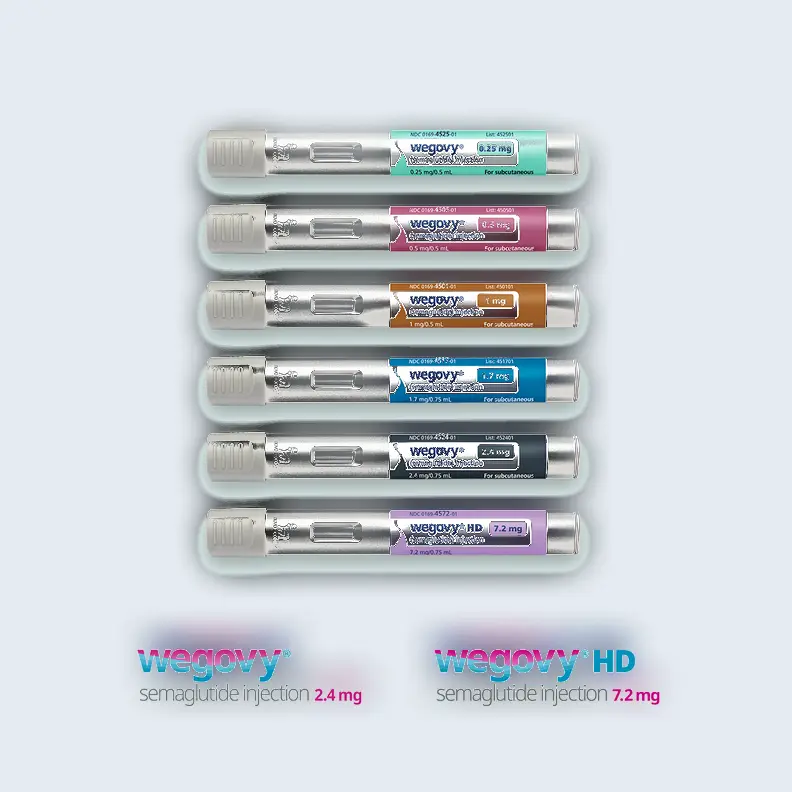
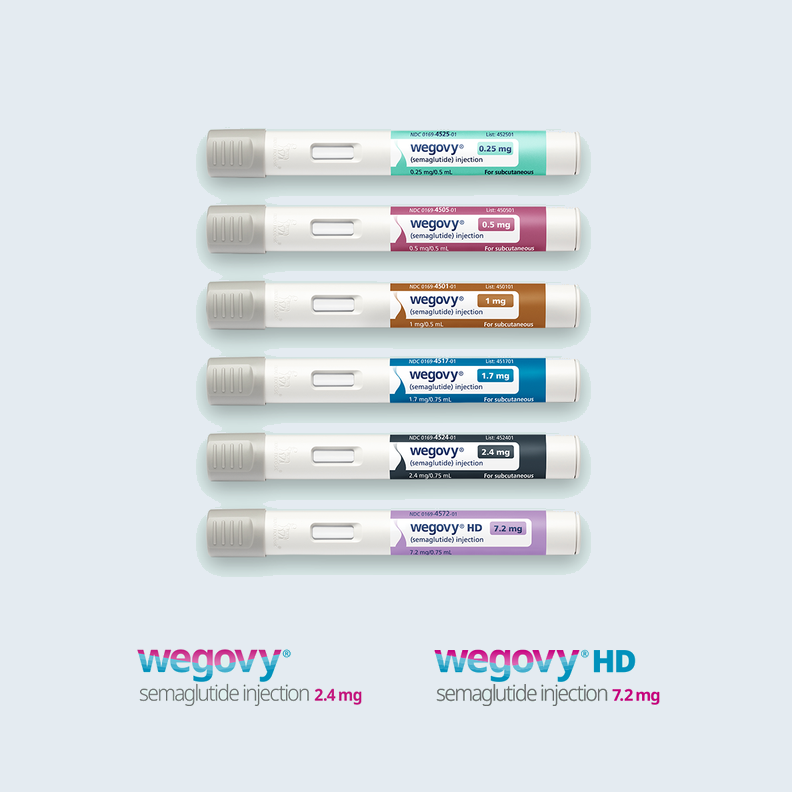
Fix the five QA findings on the narrated stage.
Name MariTide as phase 3, cut the pen still on a hard mint flood-fill without a blur halo, hold product scenes until their images decode, label the ATTAIN-1 treatment-regimen estimand, and date the forecast rows.

Changed region(s): [[0.2121, 0.1515, 0.7576, 0.7576], [0.5152, 0.7879, 0.8485, 0.9091], [0.1515, 0.7576, 0.4545, 0.9091]]

diff --git a/app/presenter.tsx b/app/presenter.tsx
@@ -6,11 +6,18 @@ const SCENES = ["cover", "pen", "wegovy", "foundayo", "forecast", "offstage", "c
 type SceneId = (typeof SCENES)[number];
 
 const HOLD_MS = 480;
+const IMAGE_SCENES = new Set<SceneId>(["cover", "pen", "wegovy", "foundayo", "close"]);
+const PRODUCT_IMAGES = [
+  "/assets/wegovy-flex-pens.webp",
+  "/assets/wegovy-pill-25mg.webp",
+  "/assets/wegovy-pill-bottle.webp",
+  "/assets/foundayo-tablet-0.8mg.webp",
+];
 
 export default function Presenter() {
   const [index, setIndex] = useState(0);
   const indexRef = useRef(0);
-  const lockRef = useRef(false);
+  const lockRef = useRef(true);
   const reduceRef = useRef(false);
 
   useEffect(() => {
@@ -41,12 +48,9 @@ export default function Presenter() {
   function go(next: number) {
     const wrapped = (next + SCENES.length) % SCENES.length;
     if (lockRef.current || wrapped === indexRef.current) return;
+    lockRef.current = true;
     indexRef.current = wrapped;
     setIndex(wrapped);
-    lockRef.current = true;
-    window.setTimeout(() => {
-      lockRef.current = false;
-    }, reduceRef.current ? 280 : HOLD_MS);
   }
 
   function advance() {
@@ -54,15 +58,66 @@ export default function Presenter() {
   }
 
   function goCover() {
+    if (indexRef.current === 0) return;
     lockRef.current = false;
     go(0);
   }
 
   const scene = SCENES[index];
+  const sectionRef = useRef<HTMLElement>(null);
+  const [readyScene, setReadyScene] = useState<SceneId | null>(null);
+  const imagesReady = !IMAGE_SCENES.has(scene) || readyScene === scene;
+
+  useEffect(() => {
+    for (const src of PRODUCT_IMAGES) {
+      const img = new Image();
+      img.src = src;
+    }
+  }, []);
+
+  useEffect(() => {
+    lockRef.current = true;
+    if (!imagesReady) return;
+    const ms = reduceRef.current ? 280 : HOLD_MS;
+    const timer = window.setTimeout(() => {
+      lockRef.current = false;
+    }, ms);
+    return () => window.clearTimeout(timer);
+  }, [index, imagesReady]);
+
+  useEffect(() => {
+    if (!IMAGE_SCENES.has(scene)) return;
+    const root = sectionRef.current;
+    if (!root) return;
+    let live = true;
+    const imgs = Array.from(root.querySelectorAll("img"));
+    let frames = 0;
+    const poll = () => {
+      if (!live) return;
+      frames += 1;
+      const painted = imgs.every((img) => img.naturalWidth > 0);
+      if (painted || frames > 600) {
+        setReadyScene(scene);
+        return;
+      }
+      window.requestAnimationFrame(poll);
+    };
+    poll();
+    return () => {
+      live = false;
+    };
+  }, [scene]);
 
   return (
     <main className="stage">
-      <section className="scene" data-id={scene} key={scene} aria-live="polite">
+      <section
+        ref={sectionRef}
+        className={imagesReady ? "scene" : "scene scene-pending"}
+        data-id={scene}
+        key={scene}
+        aria-live="polite"
+        aria-busy={!imagesReady}
+      >
         {scene === "cover" && <Cover onAdvance={advance} />}
         {scene === "pen" && <Pen onAdvance={advance} />}
         {scene === "wegovy" && <Wegovy onAdvance={advance} />}
@@ -150,10 +205,11 @@ function Forecast({ onAdvance }: { onAdvance: () => void }) {
 function Offstage({ onAdvance }: { onAdvance: () => void }) {
   return (
     <>
-      <button className="hit" type="button" onClick={onAdvance} aria-label="Empty device slot, next scene">
+      <button className="hit" type="button" onClick={onAdvance} aria-label="MariTide not approved, phase 3 in 2027, next scene">
         <Slot />
       </button>
       <h1 className="label serif">Not approved</h1>
+      <p className="meta">MariTide · Phase 3</p>
       <p className="year-mark">2027</p>
     </>
   );
@@ -200,15 +256,18 @@ function AttainChart() {
   ];
   const max = 14;
   return (
-    <svg className="chart" viewBox="0 0 560 360" role="img" aria-label="ATTAIN-1 mean weight change at 72 weeks">
+    <svg className="chart" viewBox="0 0 560 390" role="img" aria-label="ATTAIN-1 treatment-regimen estimand, mean weight change at 72 weeks">
       <text x="0" y="28" fontSize="28" className="serif">
         ATTAIN-1
       </text>
       <text x="150" y="28" fontSize="16" fill="var(--muted)">
         72 weeks
       </text>
+      <text x="0" y="54" fontSize="15" fill="var(--muted)">
+        treatment-regimen estimand
+      </text>
       {rows.map((row, i) => {
-        const y = 70 + i * 68;
+        const y = 84 + i * 72;
         const width = (row.value / max) * 360;
         const fill = row.label === "placebo" ? "var(--placebo)" : "var(--y2025)";
         return (
@@ -228,40 +287,46 @@ function AttainChart() {
 }
 
 function ForecastChart() {
-  const x = (billions: number) => 168 + (billions / 150) * 430;
+  const x = (billions: number) => 176 + (billions / 150) * 360;
   return (
-    <svg className="chart" viewBox="0 0 680 420" role="img" aria-label="Dated 2030 obesity market estimates in billions of dollars">
-      <text x="168" y="36" fontSize="16" fill="var(--muted)">
-        $ billion
+    <svg className="chart" viewBox="0 0 720 460" role="img" aria-label="Goldman Sachs 2030 obesity market estimates in billions of dollars, dated">
+      <text x="176" y="28" fontSize="16" fill="var(--muted)">
+        $ billion · 2030
       </text>
       {[0, 50, 100, 150].map((tick) => (
         <g key={tick}>
-          <line x1={x(tick)} y1="58" x2={x(tick)} y2="340" stroke="var(--line)" />
-          <text x={x(tick)} y="366" fontSize="16" textAnchor="middle" fill="var(--muted)">
+          <line x1={x(tick)} y1="48" x2={x(tick)} y2="300" stroke="var(--line)" />
+          <text x={x(tick)} y="324" fontSize="16" textAnchor="middle" fill="var(--muted)">
             {tick}
           </text>
         </g>
       ))}
-      <text x="0" y="128" fontSize="18">
-        Prior
+      <text x="0" y="112" fontSize="16">
+        Pre–May 2025
       </text>
-      <circle cx={x(130)} cy="122" r="9" fill="none" stroke="var(--y2025)" strokeWidth="3" />
-      <text x={x(130) + 16} y="128" fontSize="18" fill="var(--y2025)">
+      <circle cx={x(130)} cy="106" r="9" fill="none" stroke="var(--y2025)" strokeWidth="3" />
+      <text x={x(130) + 16} y="112" fontSize="18" fill="var(--y2025)">
         $130B
       </text>
-      <text x="0" y="214" fontSize="18">
+      <text x="0" y="198" fontSize="16">
         May 2025
       </text>
-      <circle cx={x(95)} cy="208" r="9" fill="var(--y2025)" />
-      <text x={x(95) + 16} y="214" fontSize="18" fill="var(--y2025)">
+      <circle cx={x(95)} cy="192" r="9" fill="var(--y2025)" />
+      <text x={x(95) + 16} y="198" fontSize="18" fill="var(--y2025)">
         $95B
       </text>
-      <text x="0" y="300" fontSize="18">
-        2026
+      <text x="0" y="284" fontSize="16">
+        Jun 2026
       </text>
-      <line x1={x(102)} y1="294" x2={x(114)} y2="294" stroke="var(--y2026)" strokeWidth="10" strokeLinecap="round" />
-      <text x={x(114) + 16} y="300" fontSize="18" fill="var(--y2026)">
+      <line x1={x(102)} y1="278" x2={x(114)} y2="278" stroke="var(--y2026)" strokeWidth="10" strokeLinecap="round" />
+      <text x={x(114) + 16} y="284" fontSize="18" fill="var(--y2026)">
         $102–114B
+      </text>
+      <text x="0" y="392" fontSize="15" fill="var(--muted)">
+        Goldman Sachs. $130B is the figure cut in May 2025.
+      </text>
+      <text x="0" y="416" fontSize="15" fill="var(--muted)">
+        $102–114B is from June 2026 public summaries.
       </text>
     </svg>
   );

diff --git a/app/layout.tsx b/app/layout.tsx
@@ -23,6 +23,12 @@ export const metadata: Metadata = {
 export default function RootLayout({ children }: { children: React.ReactNode }) {
   return (
     <html lang="en" className={`${serif.variable} ${sans.variable}`} data-palette="clinic">
+      <head>
+        <link rel="preload" as="image" href="/assets/wegovy-flex-pens.webp" />
+        <link rel="preload" as="image" href="/assets/wegovy-pill-25mg.webp" />
+        <link rel="preload" as="image" href="/assets/wegovy-pill-bottle.webp" />
+        <link rel="preload" as="image" href="/assets/foundayo-tablet-0.8mg.webp" />
+      </head>
       <body>{children}</body>
     </html>
   );

diff --git a/app/globals.css b/app/globals.css
@@ -56,6 +56,11 @@ button, img { user-select: none; }
   animation: settle 480ms cubic-bezier(0.2, 0.7, 0.2, 1);
 }
 
+.scene-pending {
+  visibility: hidden;
+  animation: none;
+}
+
 @keyframes settle {
   from { opacity: 0; transform: translateY(10px); }
   to { opacity: 1; transform: none; }
@@ -199,7 +204,8 @@ button, img { user-select: none; }
   place-items: center;
   align-content: center;
   justify-items: center;
-  gap: 3vh;
+  gap: 2.2vh;
+  text-align: center;
 }
 
 .slot {

diff --git a/BUILD_NOTE.md b/BUILD_NOTE.md
@@ -28,6 +28,16 @@ Official stills are fetched at build time by `scripts/prepare-assets.mjs`, cut o
 
 Foundayo’s still is the pale pink round tablet with the Lilly mark. It was not recolored and it is not shown on the Wegovy scene.
 
+## QA fixes
+
+The pen still is keyed by flood-filling the official mint background through the soft fringe (color distance 18), then composited on `#E4EBF1` with a hard edge and no blurred shadow. The old feather plus shadow was the gray halo around the pens and the Wegovy wordmarks. White type and the green pen bodies sit past that cutoff, so they stay intact. The pen file is lossless WebP.
+
+Scenes that use product stills stay hidden until those `<img>` elements have decoded, and Space does not advance while a scene is still hidden. The four stills are also preloaded from the document head.
+
+ATTAIN-1 on screen is the 72-week treatment-regimen estimand (−7.5 / −8.4 / −11.2% versus −2.1%), not the efficacy estimand (−7.8 / −9.3 / −12.4% versus −0.9%). The chart says so.
+
+The forecast rows are dated: pre–May 2025 $130B, Goldman May 2025 $95B, and June 2026 public summaries $102–114B. MariTide is named on the empty-slot scene as phase 3, still not approved, with the 2027 mark.
+
 ## Claims kept off the stage
 
 Checked on 27 September 2026: Foundayo’s FDA approval is for weight management, not type 2 diabetes. The site does not say it is approved for diabetes.
